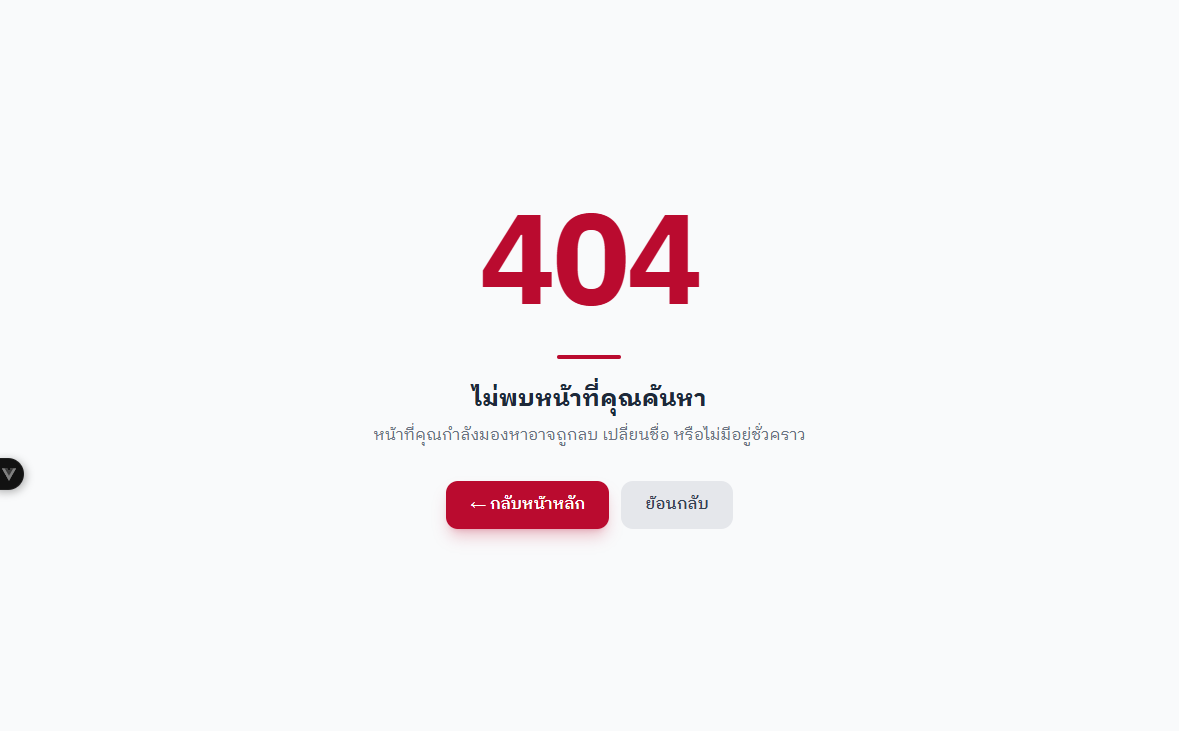
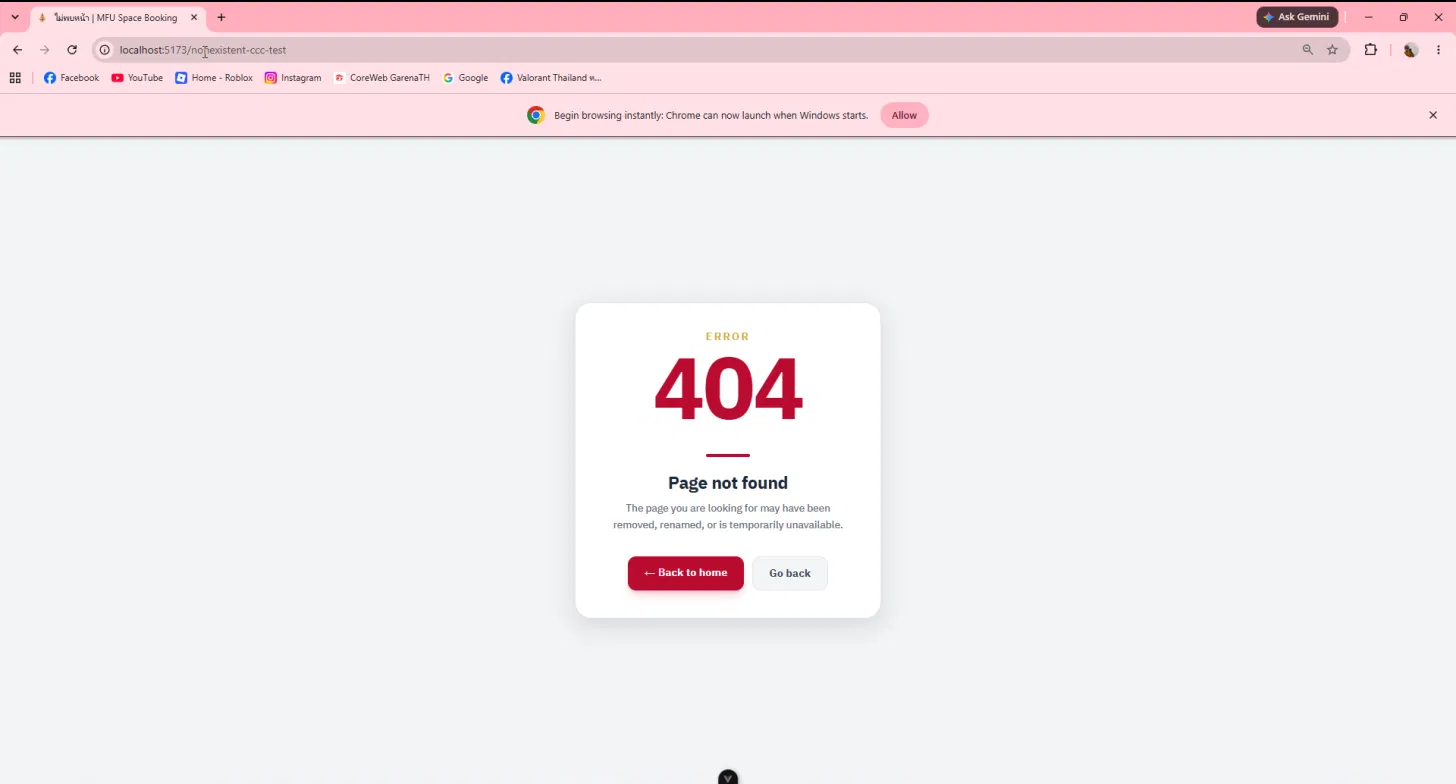
testcases-ui new byCCC

diff --git a/docs/testing/evidence/CCC/README.md b/docs/testing/evidence/CCC/README.md
@@ -1,42 +1,49 @@
 # Evidence — ซี (CCC)
 
-อัปเดต: 2026-10-12 · เคสใน `docs/testing/test-cases/cee.md`  
+อัปเดต: 2026-11-04 · เคสใน `docs/testing/test-cases/cee.md`  
 สภาพแวดล้อม: Dev `http://localhost:5173` + backend `:3000`  
-บัญชีที่ใช้: `6631501073@lamduan.mfu.ac.th` (internal)
+บัญชีที่ใช้รอบนี้: `6631501073@lamduan.mfu.ac.th` · PRATHANAKORN PITI · โปรไฟล์ขึ้น **บุคลากรภายใน (Internal)** ผ่าน `DEV_INTERNAL_EMAILS`  
+บัญชี U-02: บัญชีเดียวกัน ถอดออกจาก list ชั่วคราวแล้วแคป **บุคคลทั่วไป (External)**  
+บัญชี U-03: `frewgametv@gmail.com` · 05 Prattanakorn Piti · **บุคคลทั่วไป (External)**
+
+รอบนี้แคปใหม่ทับชื่อไฟล์เดิมหลัง UX/UI เปลี่ยน — ทำเฉพาะโฟลเดอร์ `evidence/CCC/`  
+**ไม่ได้แตะ** Jay / Parttime / CoM
 
 ## แผนที่รูป → TC
 
 | TC# | รูป | ผล | หมายเหตุสั้น |
 |-----|-----|----|----------------|
-| TC-U-01 | `TC-U-01.png` | ✅ | โปรไฟล์ลำดวนเห็นบุคลากรภายใน (บัญชีเทสแทน @mfu.ac.th) |
-| TC-U-02 | `TC-U-02.png` | ✅ | โปรไฟล์ลำดวนเห็นบุคคลทั่วไป (External) |
-| TC-U-03 | `TC-U-03.png` | ✅ | โปรไฟล์ Gmail เห็นบุคคลทั่วไป (External) |
-| TC-U-05 | `TC-U-05.png` | ✅ | เปิด `/home` โดยไม่ล็อกอิน → กลับหน้า Login |
+| TC-U-01 | `TC-U-01.png` | ✅ | lamduan `6631501073@lamduan.mfu.ac.th` ผ่าน `DEV_INTERNAL_EMAILS` · บุคลากรภายใน (Internal) |
+| TC-U-02 | `TC-U-02.png` | ✅ | บัญชีเดียวกัน ถอดออกจาก list ชั่วคราว · บุคคลทั่วไป (External) |
+| TC-U-03 | `TC-U-03.png` | ✅ | Gmail `frewgametv@gmail.com` · บุคคลทั่วไป (External) |
+| TC-U-05 | `TC-U-05.png` | ✅ | Logout แล้วเปิด `/home` → กลับหน้า Login (ไทย) |
 | TC-U-07 | `TC-U-07.png` | ✅ | รายการ 104 ห้อง การ์ดมีรูปและราคา |
-| TC-U-08 | `TC-U-08.png` | ✅ | กรองห้องประชุม เหลือ 58 ห้อง |
+| TC-U-08 | `TC-U-08.png` | ✅ | กรองประเภท «ห้องประชุม» เหลือ 58 ห้อง |
 | TC-U-09 | `TC-U-09.png` | ✅ | ค้น «ห้องประชุม» พบ 48 ห้อง |
 | TC-U-10 | `TC-U-10.png` | ✅ | ค้น Meeting Room ได้ 48 ห้อง เท่ากับค้นห้องประชุม |
-| TC-U-11 | `TC-U-11.png` | ✅ | ตารางแอดมินเห็นราคาภายใน ร่วมจัด และภายนอก |
-| TC-U-13 | `TC-U-13.png` | ✅ | เต็มวัน ฿1,000 (ครึ่งวันเช้าเป็น ฿500) |
-| TC-U-14 | `TC-U-14.png` | ✅ | เพิ่มโปรเจคเตอร์แล้วรวม ฿1,500 |
-| TC-U-17 | `TC-U-17.png` | ✅ | ไม่แนบ PDF แล้วระบบขอหนังสือบันทึกข้อความ |
-| TC-U-20 | `TC-U-20.png` | ✅ | BK-20261012-FJ9U สถานะรออนุมัติ |
-| TC-U-21 | `TC-U-21.png` | ✅ | เลือกสถานะรออนุมัติแล้วเหลือเฉพาะรายการนั้น |
-| TC-U-22 | `TC-U-22.png` | ✅ | ค้น BK-20261012-FJ9U แล้วเจอรายการเดียวกัน |
-| TC-U-25 | `TC-U-25.png` | ✅ | ยกเลิก BK-20261012-FJ9U แล้วสถานะเป็นยกเลิกแล้ว |
-| TC-U-26 | `TC-U-26.png` | ✅ | BK-20261012-K9S3 เห็น 5 ดาวและข้อความรีวิว |
-| TC-U-27 | `TC-U-27.png` | ✅ | โปรไฟล์มีชื่อ อีเมล และสิทธิ์ภายใน ช่องเบอร์ว่าง |
-| TC-I-01 | `TC-I-01.png` | ✅ | สลับเป็นอังกฤษ |
-| TC-I-02 | `TC-I-02.png` | ✅ | สลับกลับเป็นไทย |
-| TC-I-03 | `TC-I-03.png` | ✅ | หน้า Login มีปุ่ม TH/EN และข้อความเป็นอังกฤษเมื่อกด EN |
-| TC-I-04 | `TC-I-04.png` | ✅ | หน้าจองเป็นอังกฤษ กล่องแจ้งเป็น Document required |
-| TC-I-05 | `TC-I-05.png` | ✅ | ชื่อห้องแปลเป็นอังกฤษ |
-| TC-I-06 | `TC-I-06.png` | ✅ | สถานะเป็น Pending approval |
-| TC-I-07 | `TC-I-07.png` | ✅ | Footer เป็นอังกฤษ |
+| TC-U-11 | `TC-U-11.png` | ✅ | C3-101 Meeting Room · ครึ่งวัน ฿500 / เต็มวัน ฿1,000 · ปุ่ม Book Space |
+| TC-U-13 | `TC-U-13.png` | ✅ | จอง 20/11/2026 เต็มวัน ฿1,000 |
+| TC-U-14 | `TC-U-14.png` | ✅ | เพิ่ม Projector Set ×1 รวม ฿1,500 |
+| TC-U-17 | `TC-U-17.png` | ✅ | ไม่แนบ PDF → Swal «กรุณาแนบเอกสาร» |
+| TC-U-20 | `TC-U-20.png` | ✅ | แดชบอร์ดเห็นรายการจอง + badge (รอชำระเงิน / ชำระเงินแล้ว มีรีวิวแล้ว) |
+| TC-U-21 | `TC-U-21.png` | ✅ | กรองสถานะ «รอชำระเงิน» เหลือเฉพาะ BK-20261020-CLZJ |
+| TC-U-22 | `TC-U-22.png` | ✅ | ค้น CLZJ เจอ BK-20261020-CLZJ |
+| TC-U-25 | `TC-U-25.png` | ✅ | ยกเลิก BK-20261104-5DWG (E3A-201) ที่รออนุมัติ → badge ยกเลิกแล้ว |
+| TC-U-26 | `TC-U-26.png` | ✅ | BK-20261012-K9S3 เห็น badge Payment completed + Reviewed (รีวิวไปแล้ว ส่งใหม่ไม่ได้) |
+| TC-U-27 | `TC-U-27.png` | ✅ | โปรไฟล์ EN: ชื่อ · `6631501073@lamduan.mfu.ac.th` · MFU Staff (Internal) · เบอร์ 0818831902 |
+| TC-I-01 | `TC-I-01.png` | ✅ | หน้าแรก EN «Find & Reserve Spaces» |
+| TC-I-02 | `TC-I-02.png` | ✅ | หน้าแรก TH «ค้นหาและจองพื้นที่» |
+| TC-I-03 | `TC-I-03.png` | ✅ | หน้า Login มีปุ่ม TH/EN ข้อความอังกฤษเมื่อกด EN |
+| TC-I-04 | `TC-I-04.png` | ✅ | หน้าจอง EN → Swal Document required |
+| TC-I-05 | `TC-I-05.png` | ✅ | ชื่อห้องอังกฤษ (C3-101 Meeting Room, C3 Grand Hall, …) |
+| TC-I-06 | `TC-I-06.png` | ✅ | แดชบอร์ด EN: dropdown All / Pending approval / Awaiting payment / … · badge Awaiting payment |
+| TC-I-07 | `TC-I-07.png` | ✅ | Footer EN «© 2026 Mae Fah Luang University Property Management» |
 | TC-E-01 | `TC-E-01.png` | ✅ | URL ที่ไม่มีอยู่ → หน้า 404 |
-| TC-E-04 | `TC-E-04.png` | ✅ | ส่งฟอร์มว่างแล้วขึ้นให้กรอกเบอร์โทร |
-| TC-U-28 | `TC-U-28.png` | ✅ | บันทึกเบอร์แล้ว โหลดหน้าใหม่ค่ายังอยู่ |
+| TC-E-04 | `TC-E-04.png` | ✅ | เบอร์ไม่ถูกต้อง → Swal «กรุณากรอกเบอร์โทรศัพท์» |
+| TC-U-28 | `TC-U-28.png` | ✅ | แก้เบอร์เป็น 0818831903 แล้วรีโหลดค่ายังอยู่ (คืนค่า 0818831902 หลังแคป) |
 
-## ที่ยังไม่ได้ทำ
+## ที่ยังไม่ได้ทำ / ติดปัญหา
 
-ครบทุกเคสใน `cee.md` แล้ว
+แคปใหม่ UI แล้ว **28/28** ไฟล์ — ไม่ค้างรูปเดิม
+
+**TC-U-26:** ไม่ได้ส่งรีวิวใหม่ (K9S3 มีรีวิวแล้ว) — แคปสถานะ Reviewed ที่มีอยู่

diff --git a/AI_CHANGELOG.md b/AI_CHANGELOG.md
@@ -2,6 +2,33 @@
 
 This file tracks the actions, modifications, and updates performed by the AI Assistant on this project.
 
+## [2026-11-04 — แคป U-25 ยกเลิก pending]
+- ผู้ใช้จอง pending ให้ (Gmail `frewgametv@gmail.com`) · ยกเลิก BK-20261104-5DWG (E3A-201) แล้วแคปทับ `TC-U-25.png`
+- แคปใหม่ UI ครบ **28/28** ของซี
+- อัปเดต `docs/testing/evidence/CCC/README.md` · `cee.md`
+
+## [2026-11-04 — ตั้ง 1073 เป็น Internal + แคป U-01]
+- ใส่ `6631501073@lamduan.mfu.ac.th` กลับใน `DEV_INTERNAL_EMAILS` แล้วตั้ง `users.user_type` เป็น internal
+- ล็อกอินใหม่ → โปรไฟล์ขึ้น **บุคลากรภายใน (Internal)** · แคปทับ `TC-U-01.png`
+- เหลือรูปเดิมแค่ U-25 (ไม่มีจอง pending)
+- อัปเดต `docs/testing/evidence/CCC/README.md` · `cee.md`
+
+## [2026-11-04 — ตั้ง 1073 เป็น External + แคป U-02/U-03]
+- ถอด `6631501073@lamduan.mfu.ac.th` ออกจาก `DEV_INTERNAL_EMAILS` (เหลือแค่ 1071) แล้วตั้ง `users.user_type` เป็น external
+- ล็อกอินใหม่ → โปรไฟล์ขึ้น **บุคคลทั่วไป (External)** · แคปทับ `TC-U-02.png`
+- แคปทับ `TC-U-03.png` จาก Gmail `frewgametv@gmail.com` (บุคคลทั่วไป External)
+- **ไม่ใส่เมล 1073 กลับ** ใน `DEV_INTERNAL_EMAILS` ตามที่ผู้ใช้สั่ง — บัญชีนี้เป็น external ตามโดเมน lamduan
+- ค้างรูปเดิม: U-01 (ต้องบัญชี internal จริง) · U-25 (ไม่มีจอง pending)
+- อัปเดต `docs/testing/evidence/CCC/README.md` · `cee.md`
+
+## [2026-11-04 — CCC recapture หลักฐาน UI ใหม่]
+- แคปใหม่ทับ `docs/testing/evidence/CCC/` ตามเคสใน `cee.md` หลัง UX/UI เปลี่ยน — **ทำเฉพาะของซี ไม่แตะ Jay/Parttime/CoM**
+- ทับแล้ว 24 ไฟล์: U-05, U-07–11, U-13–14, U-17, U-20–22, U-26–28, I-01–07, E-01, E-04 (ต่อมาทับ U-02/U-03 รวม 26)
+- ค้างรูปเดิมตอนนั้น 4 ไฟล์: U-01/U-02/U-03 · U-25 — หลังตั้ง external แล้วเหลือ U-01/U-25
+- U-26 แคปสถานะ Reviewed ของ BK-20261012-K9S3 ที่มีอยู่ (ส่งรีวิวใหม่ไม่ได้)
+- U-28 แก้เบอร์แล้วรีโหลดค่ายังอยู่ แล้วคืนค่า 0818831902
+- อัปเดต `docs/testing/evidence/CCC/README.md`
+
 ## [2026-11-03 — Per-owner test case indexes]
 - เติมรายการ TC ตามคนใน `docs/testing/test-cases/kom.md` · `cee.md` · `jay.md` · `part.md` (จาก evidence ใน tracker)
 - อัปเดต `test-cases/README.md` ให้ลิงก์ดัชนีผู้รับผิดชอบ

diff --git a/docs/testing/test-cases/01-auth.md b/docs/testing/test-cases/01-auth.md
@@ -16,8 +16,8 @@
 
 | TC# | ชื่อเคส | หน้า | ขั้นตอน | คาดหวัง | ผล | หลักฐาน | หมายเหตุ |
 |-----|---------|------|---------|---------|----|---------|----------|
-| TC-AUTH-01 | Login บุคลากรภายใน (internal) | `/` | Sign in with Google → บัญชี internal | เข้าได้ · Role=internal · ไป `/home` | ✅ | `evidence/CCC/TC-U-01.png` | UAT ใช้ `DEV_INTERNAL_EMAILS` ได้ถ้าไม่มี `@mfu.ac.th` |
-| TC-AUTH-02 | Login `@lamduan.mfu.ac.th` | `/` | Sign in → เมล lamduan | Role=external · ไป `/home` | ✅ | `evidence/CCC/TC-U-02.png` | ถอดเมลออกจาก `DEV_INTERNAL_EMAILS` ชั่วคราวถ้าเคยบังคับ internal |
+| TC-AUTH-01 | Login บุคลากรภายใน (internal) | `/` | Sign in with Google → บัญชี internal | เข้าได้ · Role=internal · ไป `/home` | ✅ | `evidence/CCC/TC-U-01.png` | UAT: `6631501073@lamduan.mfu.ac.th` ผ่าน `DEV_INTERNAL_EMAILS` |
+| TC-AUTH-02 | Login `@lamduan.mfu.ac.th` | `/` | Sign in → เมล lamduan | Role=external · ไป `/home` | ✅ | `evidence/CCC/TC-U-02.png` | แคปตอนถอดเมล 1073 ออกจาก `DEV_INTERNAL_EMAILS` ชั่วคราว |
 | TC-AUTH-03 | Login โดเมนอื่น (เช่น Gmail) | `/` | Sign in → `@gmail.com` | Role=external · ไป `/home` | ✅ | `evidence/CCC/TC-U-03.png` |  |
 
 ## Session / Logout / Guard

diff --git a/docs/testing/test-cases/cee.md b/docs/testing/test-cases/cee.md
@@ -3,7 +3,7 @@
 **หลักฐาน:** [`../evidence/CCC/`](../evidence/CCC/) · README: [`../evidence/CCC/README.md`](../evidence/CCC/README.md)  
 **ตารางรวม:** [`../TEST_CASE_TRACKER.md`](../TEST_CASE_TRACKER.md) · แผนที่รหัส: [`_id-map.md`](./_id-map.md)
 
-อัปเดต: 2026-11-03 · แยกตามผู้รับผิดชอบจากโฟลเดอร์ evidence ใน tracker
+อัปเดต: 2026-11-04 · แคปใหม่ทับ UI ใน `evidence/CCC/` ครบ 28/28
 
 | TC (flow) | ชื่อเคส | ผล | หลักฐาน |
 |-----------|---------|----|---------|
